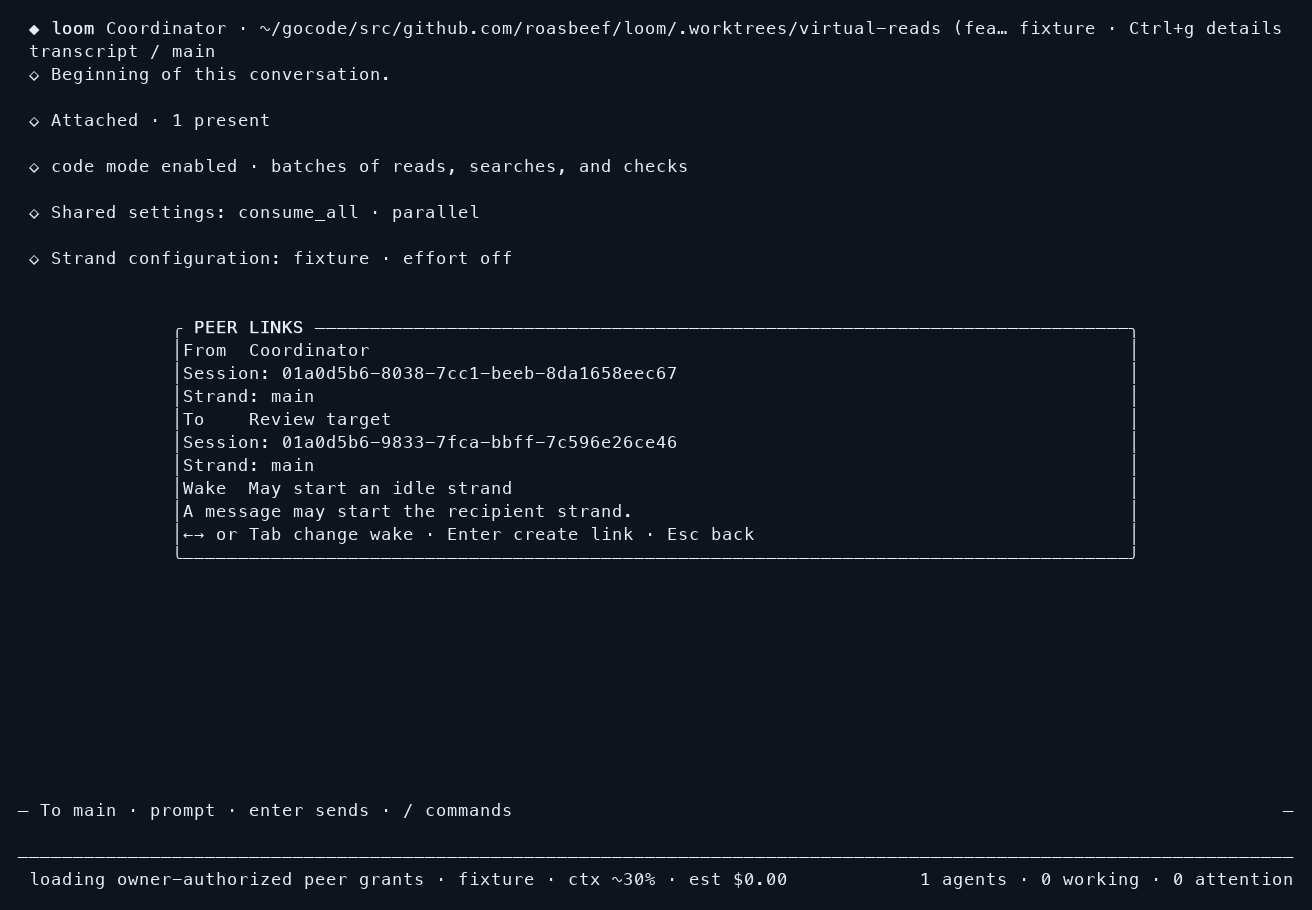
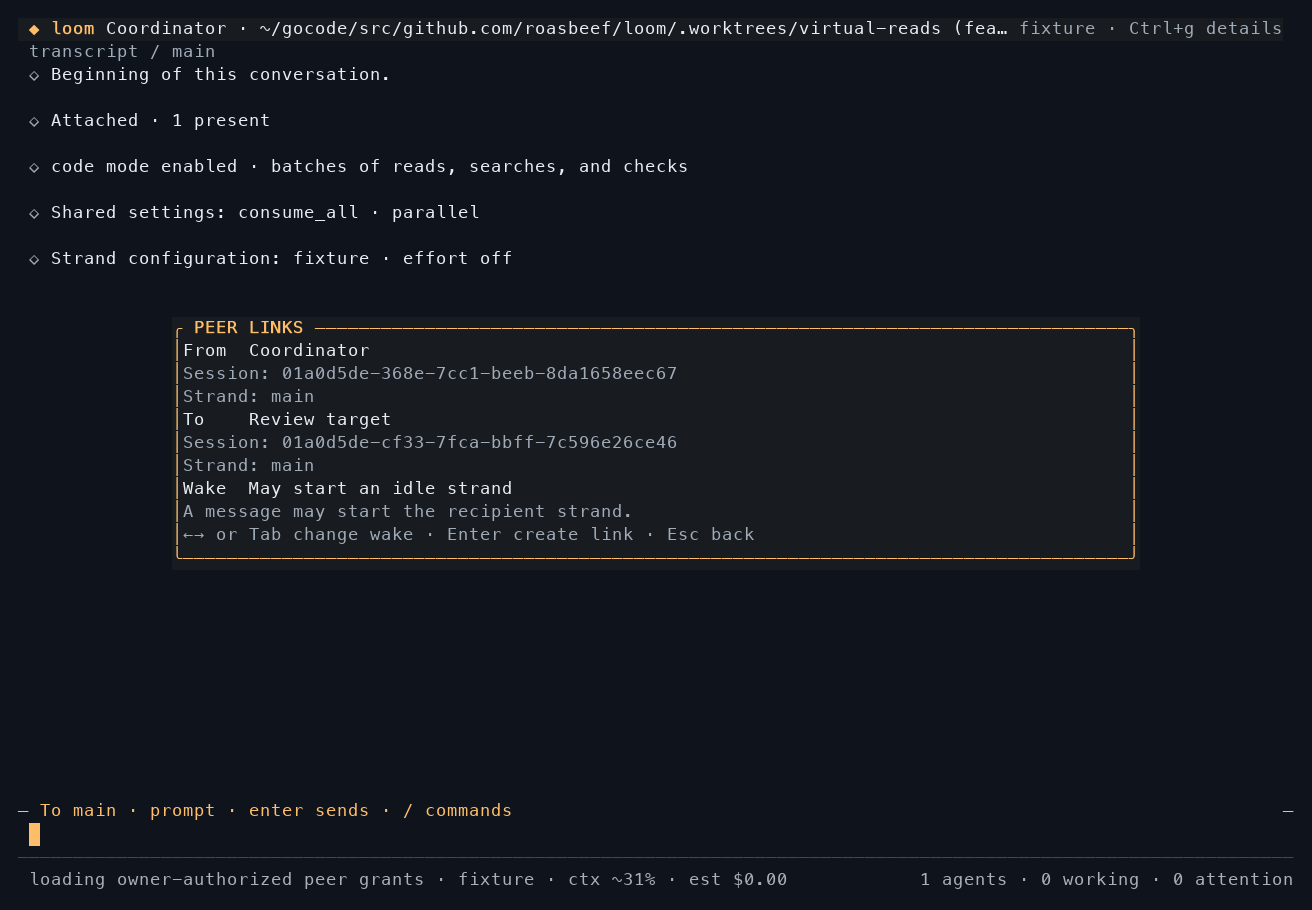
docs: recapture peer links after TUI split
The session-link flow now runs through the split TUI modules. Replace the earlier captures with frames from that client and record the matching code revision.

diff --git a/docs/images/README.md b/docs/images/README.md
@@ -30,13 +30,13 @@ results, and UI elements were not composited or rewritten for the image.
 ## Peer-link captures
 
 `peer-links-chooser.png`, `peer-links-confirm.png`, and `peer-links-linked.png`
-show the native 116-by-38 terminal at pre-rebase code commit `24eba5e1`. Two
+show the native 116-by-38 terminal at post-split code commit `0e3fae3f`. Two
 sample sessions were resident in the same isolated daemon. The operator
 selected **Review target** from `/sessions`, keeping **Coordinator / main** as
 the source, then pressed `l`. The operator entered the target's exact `main`
 strand, explicitly selected the `may_wake` permission, and created the link.
 No model request was sent.
 
-Each image renders an actual `tmux capture-pane -e -p` frame with
+Each image renders an actual full-color `tmux capture-pane -e -p` frame with
 `docs/design-notes/tui-agent-workspace/render_capture.py`. The UI content was
 not composited or rewritten.

diff --git a/docs/next.md b/docs/next.md
@@ -27,8 +27,8 @@ link. The daemon does not enumerate target strands or activate saved sessions
 as a side effect of discovery.
 
 Main's #495 TUI split moved this flow into `tui/interaction`,
-`tui/session_control`, `tui/model`, and `tui/render`. Refresh the native
-screenshots from those modules before merging the stack.
+`tui/session_control`, `tui/model`, and `tui/render`. The native screenshots
+were recaptured from the post-split client.
 
 The stack's images in `docs/images/peer-links-*.png` come from the native
 116-by-38 terminal with two resident sample sessions. The target name and
